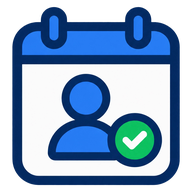
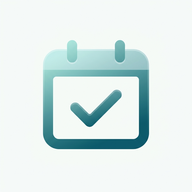
update

diff --git a/index.html b/index.html
@@ -5,6 +5,9 @@
     <meta name="viewport" content="width=device-width, initial-scale=1, maximum-scale=1, viewport-fit=cover" />
     <title>Evidence docházky</title>
     <link rel="manifest" href="manifest.json" />
+    <link rel="icon" type="image/png" href="icon-192.png" />
+    <link rel="apple-touch-icon" href="icon-180.png" />
+    <meta name="apple-mobile-web-app-title" content="Docházka" />
     <meta name="theme-color" content="#f5f5f4" />
     
     <link rel="preconnect" href="https://fonts.googleapis.com">
@@ -145,6 +148,15 @@
         </header>
 
         <main class="px-3 pt-2 pb-20">
+            <!-- Výzva na začátku nového roku -->
+            <div id="yearBanner" style="display:none" class="mb-2.5 bg-amber-50 border border-amber-200 rounded-xl px-3 py-2.5 items-center gap-3 flex-wrap">
+                <div class="flex-1 min-w-[180px] text-xs text-amber-900 leading-snug">
+                    <span id="yearBannerTitle" class="font-bold text-[13px]">Nový rok</span><br>
+                    Dovolená a sickdays se vynulovaly. Nastav si nárok na nový rok.
+                </div>
+                <button id="yearBannerBtn" class="bg-amber-400 hover:bg-amber-500 text-amber-950 font-bold text-xs rounded-lg px-3 py-2 transition">Nastavit</button>
+            </div>
+
             <!-- Hlavní karta - Souhrn -->
             <div class="bg-white border border-slate-200 rounded-xl px-3 py-2.5 text-slate-800 shadow-sm mb-2.5">
                 <div class="grid grid-cols-2 gap-x-4">
@@ -252,7 +264,7 @@
             
             <div class="p-6 overflow-y-auto space-y-5">
                 <div class="bg-slate-50 p-4 rounded-2xl border border-slate-100 space-y-4">
-                    <h4 class="text-xs font-bold text-slate-400 uppercase tracking-wider mb-2">Kvóty (dní za rok)</h4>
+                    <h4 id="quotaTitle" class="text-xs font-bold text-slate-400 uppercase tracking-wider mb-2">Kvóty (dní za rok)</h4>
                     
                     <div class="flex items-center justify-between">
                         <label class="font-medium text-sm">Dovolená</label>
@@ -263,7 +275,7 @@
                         <label class="font-medium text-sm">Sickdays</label>
                         <input type="number" id="setSickdays" min="0" step="1" class="w-20 text-center bg-white border border-slate-200 rounded-lg py-2 font-mono" />
                     </div>
-                    <p class="text-[11px] text-slate-400 leading-snug pt-1">Dovolenou můžeš zadat i po půl dni (např. 12,5). Když ti v zůstatku zbývá půlka dne, při zadávání dovolené se nabídne i „jen půlku" (počítá se jako 0,5 dne a poloviční pracovní doba). Při celých dnech se půlka nenabízí.</p>
+                    <p class="text-[11px] text-slate-400 leading-snug pt-1">Dovolenou můžeš zadat i po půl dni (např. 12,5). Když ti v zůstatku zbývá půlka dne, při zadávání dovolené se nabídne i „jen půlku" (počítá se jako 0,5 dne a poloviční pracovní doba). Při celých dnech se půlka nenabízí. Čerpání se každý rok od 1. ledna počítá znovu od nuly a nárok si na nový rok nastavíš tady (nevyčerpané dny se nepřenášejí, případně je přičti k novému nároku).</p>
                 </div>
 
                 <div class="bg-slate-50 p-4 rounded-2xl border border-slate-100 space-y-4">
@@ -410,6 +422,7 @@
         // ============================================================
         // Datové konstanty a stav
         // ============================================================
+        const HOME_STYLE = { label: 'Homeoffice', icon: 'ph-house-line', colorCls: 'bg-sky-100 text-sky-700' };
         const TYPES = {
             sickday:   { label: 'Sickday',          icon: 'ph-thermometer',     colorCls: 'bg-orange-100 text-orange-700' },
             dovolena:  { label: 'Dovolená',         icon: 'ph-tree-palm',       colorCls: 'bg-emerald-100 text-emerald-700' },
@@ -424,7 +437,7 @@
         let year = new Date().getFullYear();
         let month = new Date().getMonth();
         let entries = {};
-        let settings = { vacationDaysTotal: 20, sickDaysTotal: 5, workDayLength: 8, countBreak: true, breakMinutes: 30, autoHolidays: true, notifyEnabled: false, notifyMinutes: 15 };
+        let settings = { vacationDaysTotal: 20, sickDaysTotal: 5, workDayLength: 8, countBreak: true, breakMinutes: 30, autoHolidays: true, notifyEnabled: false, notifyMinutes: 15, allotments: undefined };
         
         let openDayKey = null;
         let sheetStep = 'view'; 
@@ -539,6 +552,21 @@
             return name ? { type: 'svatek', auto: true, name } : undefined;
         }
 
+        // ============================================================
+        // Roční nárok na dovolenou a sickdays
+        // Čerpání se počítá za kalendářní rok, takže 1. ledna začíná od nuly.
+        // Nárok se nastavuje zvlášť pro každý rok; když pro nový rok chybí, appka vyzve k nastavení.
+        // ============================================================
+        function currentYear() { return new Date().getFullYear(); }
+        function getAllotment(y) {
+            const a = settings.allotments && settings.allotments[y];
+            if (a) return { vacation: Number(a.vacation) || 0, sick: Number(a.sick) || 0 };
+            return { vacation: Number(settings.vacationDaysTotal) || 0, sick: Number(settings.sickDaysTotal) || 0 };
+        }
+        function yearSetupNeeded() {
+            return !!settings.allotments && !settings.allotments[currentYear()];
+        }
+
         // Kolik dní dovolené je za daný rok vyčerpáno (volitelně bez jednoho dne, který se právě upravuje)
         function vacationUsed(yearStr, excludeKey) {
             let used = 0;
@@ -551,7 +579,8 @@
             return used;
         }
         function vacationRemaining(key) {
-            return Number(settings.vacationDaysTotal) - vacationUsed(key.split('-')[0], key);
+            const y = key.split('-')[0];
+            return getAllotment(Number(y)).vacation - vacationUsed(y, key);
         }
         // Půlku dovolené nabízíme jen tehdy, když zůstatek obsahuje půl dne (např. zbývá 2,5 nebo 0,5).
         // Při celých dnech (zbývá 3, 12 ...) se nenabízí.
@@ -587,7 +616,14 @@
                         settings = Object.assign({}, settings, data.settings || {});
                     } catch (e) { entries = {}; }
                 }
+                // dosavadní hodnoty se jednou převezmou jako nárok na letošní rok
+                let seeded = false;
+                if (!settings.allotments) {
+                    settings.allotments = { [currentYear()]: { vacation: Number(settings.vacationDaysTotal) || 0, sick: Number(settings.sickDaysTotal) || 0 } };
+                    seeded = true;
+                }
                 render();
+                if (seeded) persist();
                 if (openDayKey || sheetStep === 'pickdate') renderSheet();
             }, err => {
                 setStatus(err && err.code === 'permission-denied' ? 'Nemáš oprávnění k datům' : 'Chyba spojení');
@@ -662,7 +698,7 @@
         // Odesílá je samostatný Worker na Cloudflare – appka jen zaregistruje telefon.
         // VAPID klíč: Firebase konzole → Project settings → Cloud Messaging → Web Push certificates
         // ============================================================
-        const VAPID_KEY = 'BKuFVooIIHtbTkf8AdEAR1jSeHeG1UaG5A1-G9c_lXYBgiLJlPjtEX8BVUhgvnp7OSjaXqcSy0I6TzM9N6UQ5Ds';
+        const VAPID_KEY = 'VLOŽ_SEM_VAPID_KLÍČ';
         const PUSH_TOKEN_KEY = 'dochazka_fcm_token';
         const pushDocRef = db.collection('dochazka').doc('push');
         let pushBusy = false;
@@ -855,8 +891,18 @@
                 else if (en.type === 'work' && en.halfVac) vacUsed += 0.5;
                 if (en.type === 'sickday') sickUsed += 1;
             });
-            document.getElementById('vacLeft').textContent = fmtAvailable(Math.max(0, settings.vacationDaysTotal - vacUsed));
-            document.getElementById('sickLeft').textContent = fmtAvailable(Math.max(0, settings.sickDaysTotal - sickUsed));
+            const allot = getAllotment(year);
+            document.getElementById('vacLeft').textContent = fmtAvailable(Math.max(0, allot.vacation - vacUsed));
+            document.getElementById('sickLeft').textContent = fmtAvailable(Math.max(0, allot.sick - sickUsed));
+
+            // výzva k nastavení nároku na nový rok
+            const banner = document.getElementById('yearBanner');
+            if (yearSetupNeeded()) {
+                document.getElementById('yearBannerTitle').textContent = `Nový rok ${currentYear()}`;
+                banner.style.display = 'flex';
+            } else {
+                banner.style.display = 'none';
+            }
 
             // Render týdnů
             const container = document.getElementById('weeksContainer');
@@ -929,7 +975,7 @@
                     const isToday = key === todayKey;
                     const e = getEntry(key);
 
-                    const rowCls = `cursor-pointer hover:bg-slate-50 transition ${isToday ? 'bg-amber-50' : ''}`;
+                    const rowCls = `cursor-pointer hover:bg-slate-50 transition ${isToday ? 'bg-amber-50' : (e && e.home ? 'bg-sky-50/70' : '')}`;
                     const dateCls = isToday ? 'text-primary-700 font-bold' : (isWeekend ? 'text-slate-400 font-medium' : 'text-slate-800 font-medium');
 
                     html += `<tr class="${rowCls}" onclick="openSheet('${key}')">`;
@@ -949,9 +995,10 @@
                         const wh = workedHours(e);
                         const sal = daySaldo(e);
 
-                        html += e && e.halfVac
-                            ? `<td class="border border-slate-200 px-0.5 py-[3px] text-center font-sans"><span class="inline-block px-0.5 rounded bg-emerald-100 text-emerald-700 font-semibold text-[8.5px] leading-tight whitespace-nowrap">½ dov.</span></td>`
-                            : `<td class="border border-slate-200 px-0.5 py-[3px] text-center font-sans">Práce</td>`;
+                        const typBadges = [];
+                        if (e && e.halfVac) typBadges.push(`<span class="inline-block px-0.5 rounded bg-emerald-100 text-emerald-700 font-semibold text-[8.5px] leading-tight whitespace-nowrap">½ dov.</span>`);
+                        if (e && e.home) typBadges.push(`<span class="inline-block px-1 rounded bg-sky-100 text-sky-700 font-bold text-[9px] leading-tight whitespace-nowrap">Home</span>`);
+                        html += `<td class="border border-slate-200 px-0.5 py-[3px] text-center font-sans">${typBadges.length ? `<div class="flex flex-col items-center gap-0.5">${typBadges.join('')}</div>` : 'Práce'}</td>`;
                         html += `<td class="${cell}">${e?.checkIn || '<span class="text-slate-300">–</span>'}</td>`;
                         html += `<td class="${cell}">${e?.checkOut || '<span class="text-slate-300">–</span>'}</td>`;
                         html += `<td class="${cell}">${span !== null ? fmtDur(span) : '<span class="text-slate-300">–</span>'}</td>`;
@@ -1075,6 +1122,50 @@
                 return;
             }
 
+            if (sheetStep === 'home') {
+                const isWork = entry && entry.type === 'work';
+                const homeOn = !!(isWork && entry.home);
+                body.innerHTML = `
+                    <div class="flex items-center gap-2 mb-5 px-3 py-2 rounded-xl bg-sky-50 text-sky-700 text-sm font-semibold">
+                        <i class="ph ph-house-line text-lg"></i> Homeoffice (práce z domu)
+                    </div>
+                    <div class="grid grid-cols-2 gap-3 mb-2">
+                        <div>
+                            <label class="block text-sm font-semibold text-slate-600 mb-2">Od</label>
+                            <input type="time" id="homeFrom" value="${isWork && entry.checkIn ? entry.checkIn : ''}" class="w-full bg-slate-50 border border-slate-200 rounded-xl px-2 py-4 text-2xl text-center font-mono focus:outline-none focus:ring-2 focus:ring-primary-500 transition" />
+                        </div>
+                        <div>
+                            <label class="block text-sm font-semibold text-slate-600 mb-2">Do</label>
+                            <input type="time" id="homeTo" value="${isWork && entry.checkOut ? entry.checkOut : ''}" class="w-full bg-slate-50 border border-slate-200 rounded-xl px-2 py-4 text-2xl text-center font-mono focus:outline-none focus:ring-2 focus:ring-primary-500 transition" />
+                        </div>
+                    </div>
+                    <p class="text-xs text-slate-400 mb-6">Čas „Do" můžeš doplnit později.</p>
+                    <div class="flex gap-3">
+                        <button id="cancelHome" class="flex-1 bg-slate-100 hover:bg-slate-200 text-slate-700 font-semibold rounded-xl py-4 transition">Zrušit</button>
+                        <button id="saveHome" class="flex-1 bg-primary-600 hover:bg-primary-700 text-white font-bold rounded-xl py-4 transition shadow-lg shadow-primary-500/30">Uložit</button>
+                    </div>
+                    ${homeOn ? '<button id="homeOff" class="w-full text-slate-500 font-semibold py-3 mt-2 hover:text-slate-800 transition text-sm">Změnit zpět na běžnou práci</button>' : ''}
+                `;
+                document.getElementById('cancelHome').addEventListener('click', () => { sheetStep = 'choose'; renderSheet(); });
+                document.getElementById('saveHome').addEventListener('click', () => {
+                    const from = document.getElementById('homeFrom').value;
+                    const to = document.getElementById('homeTo').value;
+                    if (!from) { document.getElementById('homeFrom').focus(); return; }
+                    const next = Object.assign({}, isWork ? entry : {}, { type: 'work', home: true, checkIn: from });
+                    if (to) next.checkOut = to; else delete next.checkOut;
+                    setEntry(openDayKey, next);
+                    closeSheet();
+                });
+                const off = document.getElementById('homeOff');
+                if (off) off.addEventListener('click', () => {
+                    const next = Object.assign({}, entry);
+                    delete next.home;
+                    setEntry(openDayKey, next);
+                    closeSheet();
+                });
+                return;
+            }
+
             if (sheetStep === 'vacation') {
                 const rem = vacationRemaining(openDayKey);
                 body.innerHTML = `
@@ -1115,7 +1206,7 @@
                 let html = '<div class="space-y-3 mb-6">';
                 
                 html += `
-                    <div class="grid grid-cols-2 gap-3 mb-6">
+                    <div class="grid grid-cols-2 gap-3 mb-3">
                         <button class="choice-btn flex flex-col items-center justify-center p-4 bg-emerald-50 hover:bg-emerald-100 text-emerald-700 border border-emerald-100 rounded-2xl transition" data-action="checkIn">
                             <i class="ph ph-arrow-circle-right text-3xl mb-2"></i>
                             <span class="font-semibold text-sm">Zadat příchod</span>
@@ -1125,6 +1216,18 @@
                             <span class="font-semibold text-sm">Zadat odchod</span>
                         </button>
                     </div>
+                    <button class="choice-btn w-full flex items-center justify-between p-4 mb-5 bg-white border border-slate-200 rounded-xl hover:border-primary-500 transition group" data-home-form="1">
+                        <div class="flex items-center gap-3">
+                            <div class="w-10 h-10 rounded-full flex items-center justify-center ${HOME_STYLE.colorCls}">
+                                <i class="ph ${HOME_STYLE.icon} text-lg"></i>
+                            </div>
+                            <div class="text-left">
+                                <span class="font-semibold text-slate-700 block">Homeoffice</span>
+                                <span class="text-xs text-slate-400">${entry && entry.type === 'work' && entry.home ? 'Upravit čas od–do' : 'Práce z domu, zadáš čas od–do'}</span>
+                            </div>
+                        </div>
+                        <i class="ph ph-caret-right text-slate-300 group-hover:text-primary-500"></i>
+                    </button>
                     <p class="text-xs font-bold text-slate-400 uppercase tracking-wider mb-2">Ostatní záznamy</p>
                 `;
 
@@ -1162,6 +1265,9 @@
 
                 body.querySelectorAll('[data-action]').forEach(btn => {
                     btn.addEventListener('click', () => { pendingAction = btn.dataset.action; sheetStep = 'time'; renderSheet(); });
+                });
+                body.querySelectorAll('[data-home-form]').forEach(btn => {
+                    btn.addEventListener('click', () => { sheetStep = 'home'; renderSheet(); });
                 });
                 body.querySelectorAll('[data-half]').forEach(btn => {
                     btn.addEventListener('click', () => {
@@ -1208,6 +1314,9 @@
                 const wh = workedHours(entry);
                 const sal = daySaldo(entry);
                 
+                if (entry.home) {
+                    html += `<div class="flex items-center gap-2 mb-3 px-3 py-2 rounded-xl bg-sky-50 text-sky-700 text-sm font-semibold"><i class="ph ph-house-line text-lg"></i> Homeoffice</div>`;
+                }
                 if (entry.halfVac) {
                     html += `<div class="flex items-center gap-2 mb-3 px-3 py-2 rounded-xl bg-emerald-50 text-emerald-700 text-sm font-semibold"><span class="font-bold">½</span> dne dovolené · cíl ${fmtDur(dayTarget(entry))} h</div>`;
                 }
@@ -1278,8 +1387,10 @@
         }
 
         function openSettings() {
-            document.getElementById('setVacation').value = settings.vacationDaysTotal;
-            document.getElementById('setSickdays').value = settings.sickDaysTotal;
+            const allotNow = getAllotment(currentYear());
+            document.getElementById('quotaTitle').textContent = `Nárok na rok ${currentYear()} (dní)`;
+            document.getElementById('setVacation').value = allotNow.vacation;
+            document.getElementById('setSickdays').value = allotNow.sick;
             document.getElementById('setWorkLen').value = settings.workDayLength;
             document.getElementById('setCountBreak').checked = !!settings.countBreak;
             document.getElementById('setBreakMin').value = settings.breakMinutes;
@@ -1294,15 +1405,19 @@
         }
 
         document.getElementById('openSettings').addEventListener('click', openSettings);
+        document.getElementById('yearBannerBtn').addEventListener('click', openSettings);
         document.getElementById('closeSettings').addEventListener('click', closeSettings);
         document.getElementById('closeSheet').addEventListener('click', closeSheet);
         document.getElementById('settingsBackdrop').addEventListener('click', closeSettings);
         document.getElementById('overlayBackdrop').addEventListener('click', closeSheet);
         
         document.getElementById('saveSettings').addEventListener('click', () => {
+            const newVac = Number(document.getElementById('setVacation').value) || 0;
+            const newSick = Number(document.getElementById('setSickdays').value) || 0;
             settings = {
-                vacationDaysTotal: Number(document.getElementById('setVacation').value) || 0,
-                sickDaysTotal: Number(document.getElementById('setSickdays').value) || 0,
+                vacationDaysTotal: newVac,
+                sickDaysTotal: newSick,
+                allotments: Object.assign({}, settings.allotments, { [currentYear()]: { vacation: newVac, sick: newSick } }),
                 workDayLength: Number(document.getElementById('setWorkLen').value) || 8,
                 countBreak: document.getElementById('setCountBreak').checked,
                 breakMinutes: Number(document.getElementById('setBreakMin').value) || 0,

diff --git a/sw.js b/sw.js
@@ -1,5 +1,5 @@
-const CACHE = 'dochazka-v4';
-const ASSETS = ['./', './index.html', './manifest.json', './icon-192.png', './icon-512.png'];
+const CACHE = 'dochazka-v5';
+const ASSETS = ['./', './index.html', './manifest.json', './icon-180.png', './icon-192.png', './icon-512.png'];
 
 // ------------------------------------------------------------
 // Upozornění (Firebase Cloud Messaging) – zobrazí je, i když je appka zavřená.
